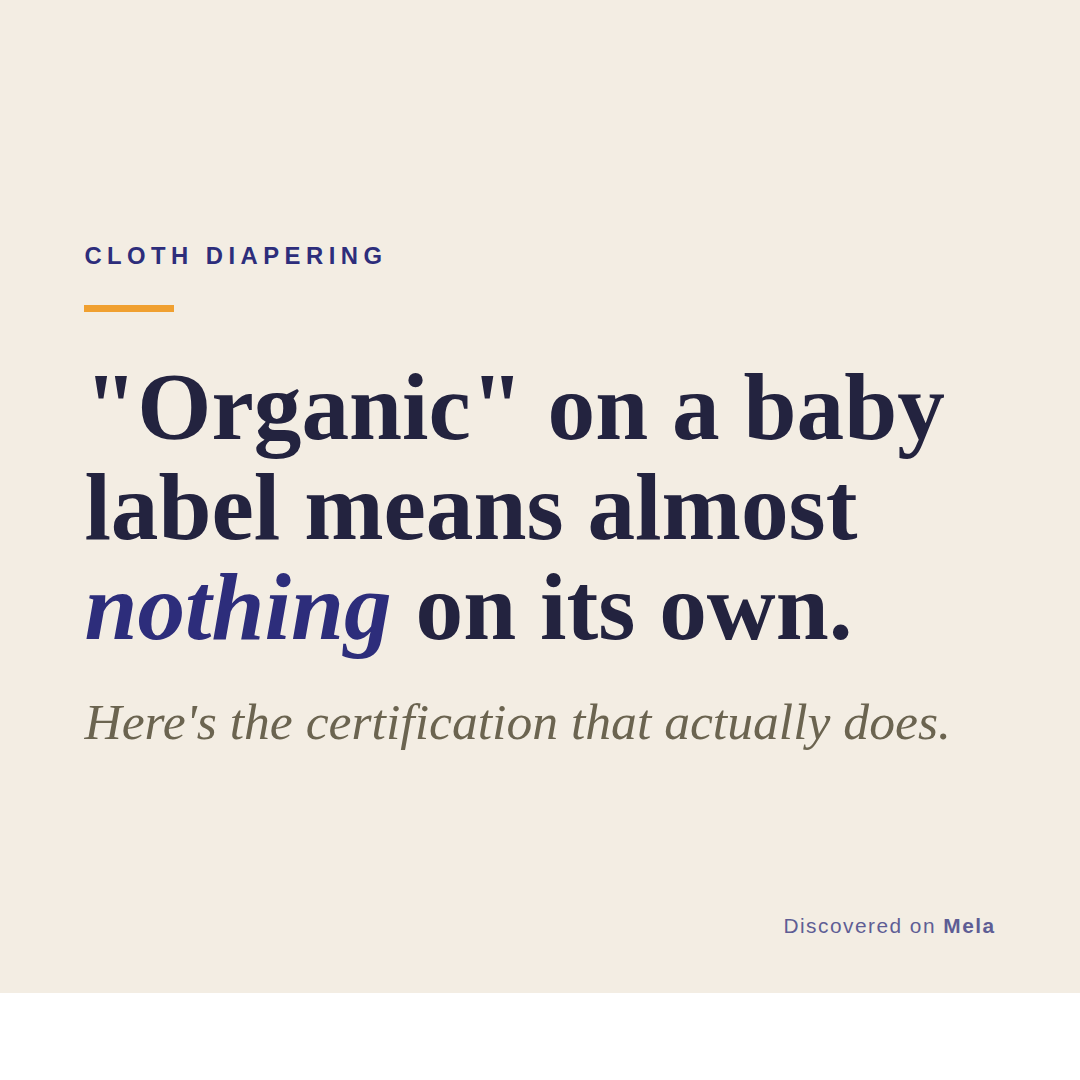
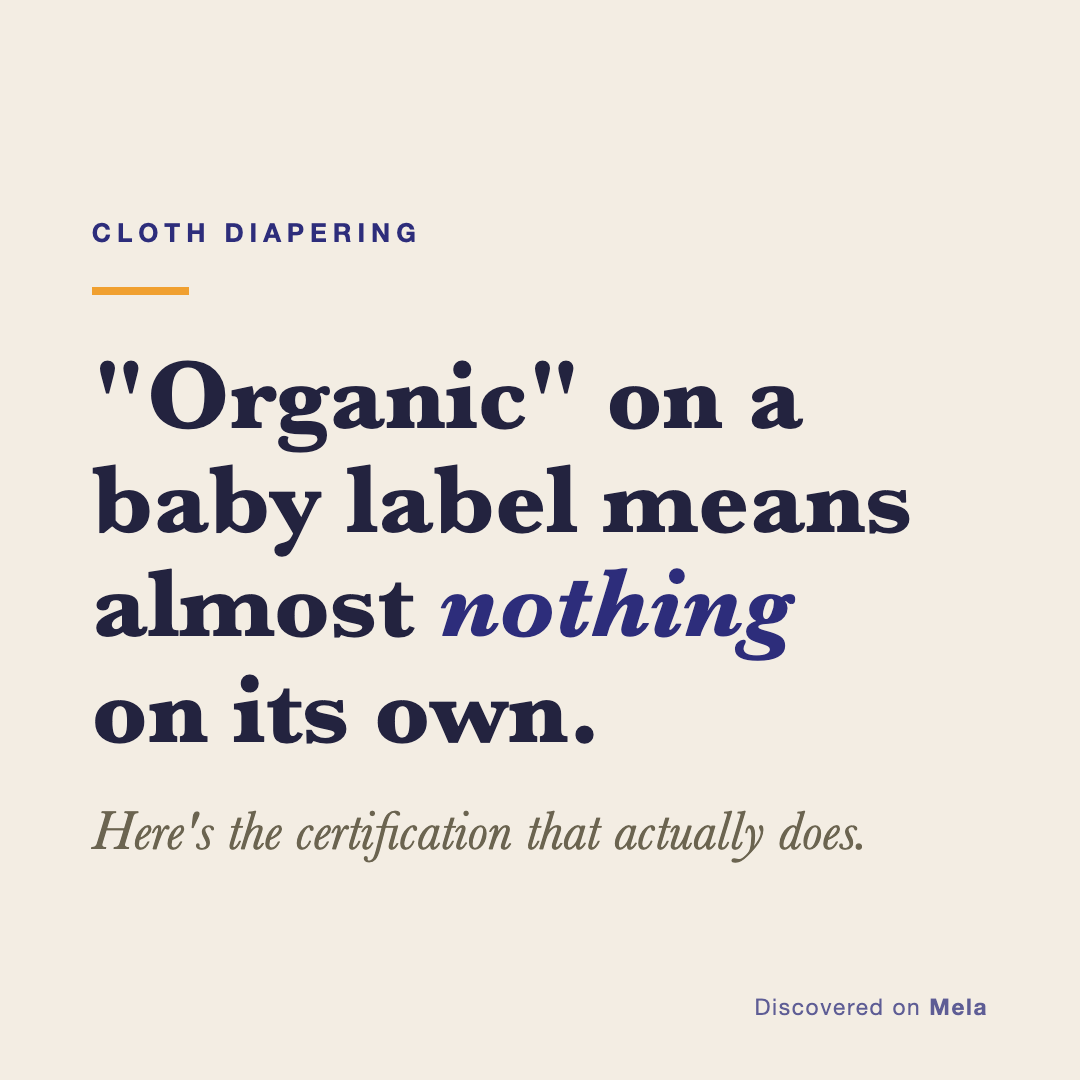
docs(social): record week-of-2026-09-30 batch as scheduled
Update SuperBottoms, Banjaaran Studio and quality-superbottoms campaign
logs from status: staged to scheduled, with a shipped block capturing what
actually went to Blotato (IDs, times, caption changes, watermark composite,
closed-listing note). Replace education slide renders with fixed versions
(white strip, watermark collision, headline wrap).

diff --git a/social/log/_education/quality-superbottoms/renders/hook-card.html b/social/log/_education/quality-superbottoms/renders/hook-card.html
@@ -8,7 +8,7 @@
   /* Hook card: slide 1 for a cultural_education post. A curiosity hook,
      NEVER a product. See visual-style-guide.md -> Education Visual System. */
   .card { justify-content: center; }
-  .headline { font-size: 9.6vmin; line-height: 1.05; color: var(--ink); margin: 0; }
+  .headline { font-size: 9.2vmin; line-height: 1.05; color: var(--ink); margin: 0; }
   .headline .accent { color: var(--navy); font-style: italic; }
   .subline { font-size: 5.2vmin; color: var(--muted); margin-top: 3.5vmin; font-style: italic; }
 </style>
@@ -19,7 +19,7 @@
     <div class="kicker">Cloth diapering</div>
     <div class="rule"></div>
     <!-- EDIT: headline. Wrap ONE word in <span class="accent"> for the navy-italic pop. -->
-    <h1 class="headline">"Organic" on a baby<br>label means almost <span class="accent">nothing</span> on its own.</h1>
+    <h1 class="headline">"Organic" on a<br>baby label means<br>almost <span class="accent">nothing</span><br>on its own.</h1>
     <!-- EDIT: subline (optional) -->
     <div class="subline">Here's the certification that actually does.</div>
     <div class="watermark">Discovered on <b>Mela</b></div>

diff --git a/social/log/_education/quality-superbottoms/renders/teaching-card.html b/social/log/_education/quality-superbottoms/renders/teaching-card.html
@@ -11,11 +11,11 @@
      Visual System -> Middle slides. */
   .card { justify-content: flex-start; }
   .headline {
-    font-size: 6.4vmin; line-height: 1.08; color: var(--ink);
-    margin: 0 0 5vmin; max-width: 92%;
+    font-size: 6vmin; line-height: 1.08; color: var(--ink);
+    margin: 0 0 3.5vmin; max-width: 92%;
   }
   .headline .accent { color: var(--navy); font-style: italic; }
-  .steps { display: flex; flex-direction: column; gap: 3.4vmin; margin-top: 0.5vmin; }
+  .steps { display: flex; flex-direction: column; gap: 2.4vmin; margin-top: 0.5vmin; }
   .step { display: flex; align-items: flex-start; gap: 3vmin; }
   .num {
     font-family: var(--sans); font-weight: 700; font-size: 2.9vmin;
@@ -24,7 +24,7 @@
     display: flex; align-items: center; justify-content: center;
     margin-top: 0.4vmin;
   }
-  .step p { font-size: 4vmin; line-height: 1.32; color: var(--ink); margin: 0; }
+  .step p { font-size: 3.7vmin; line-height: 1.28; color: var(--ink); margin: 0; }
   .step p b { color: var(--navy); font-weight: 600; }
 </style>
 </head>
